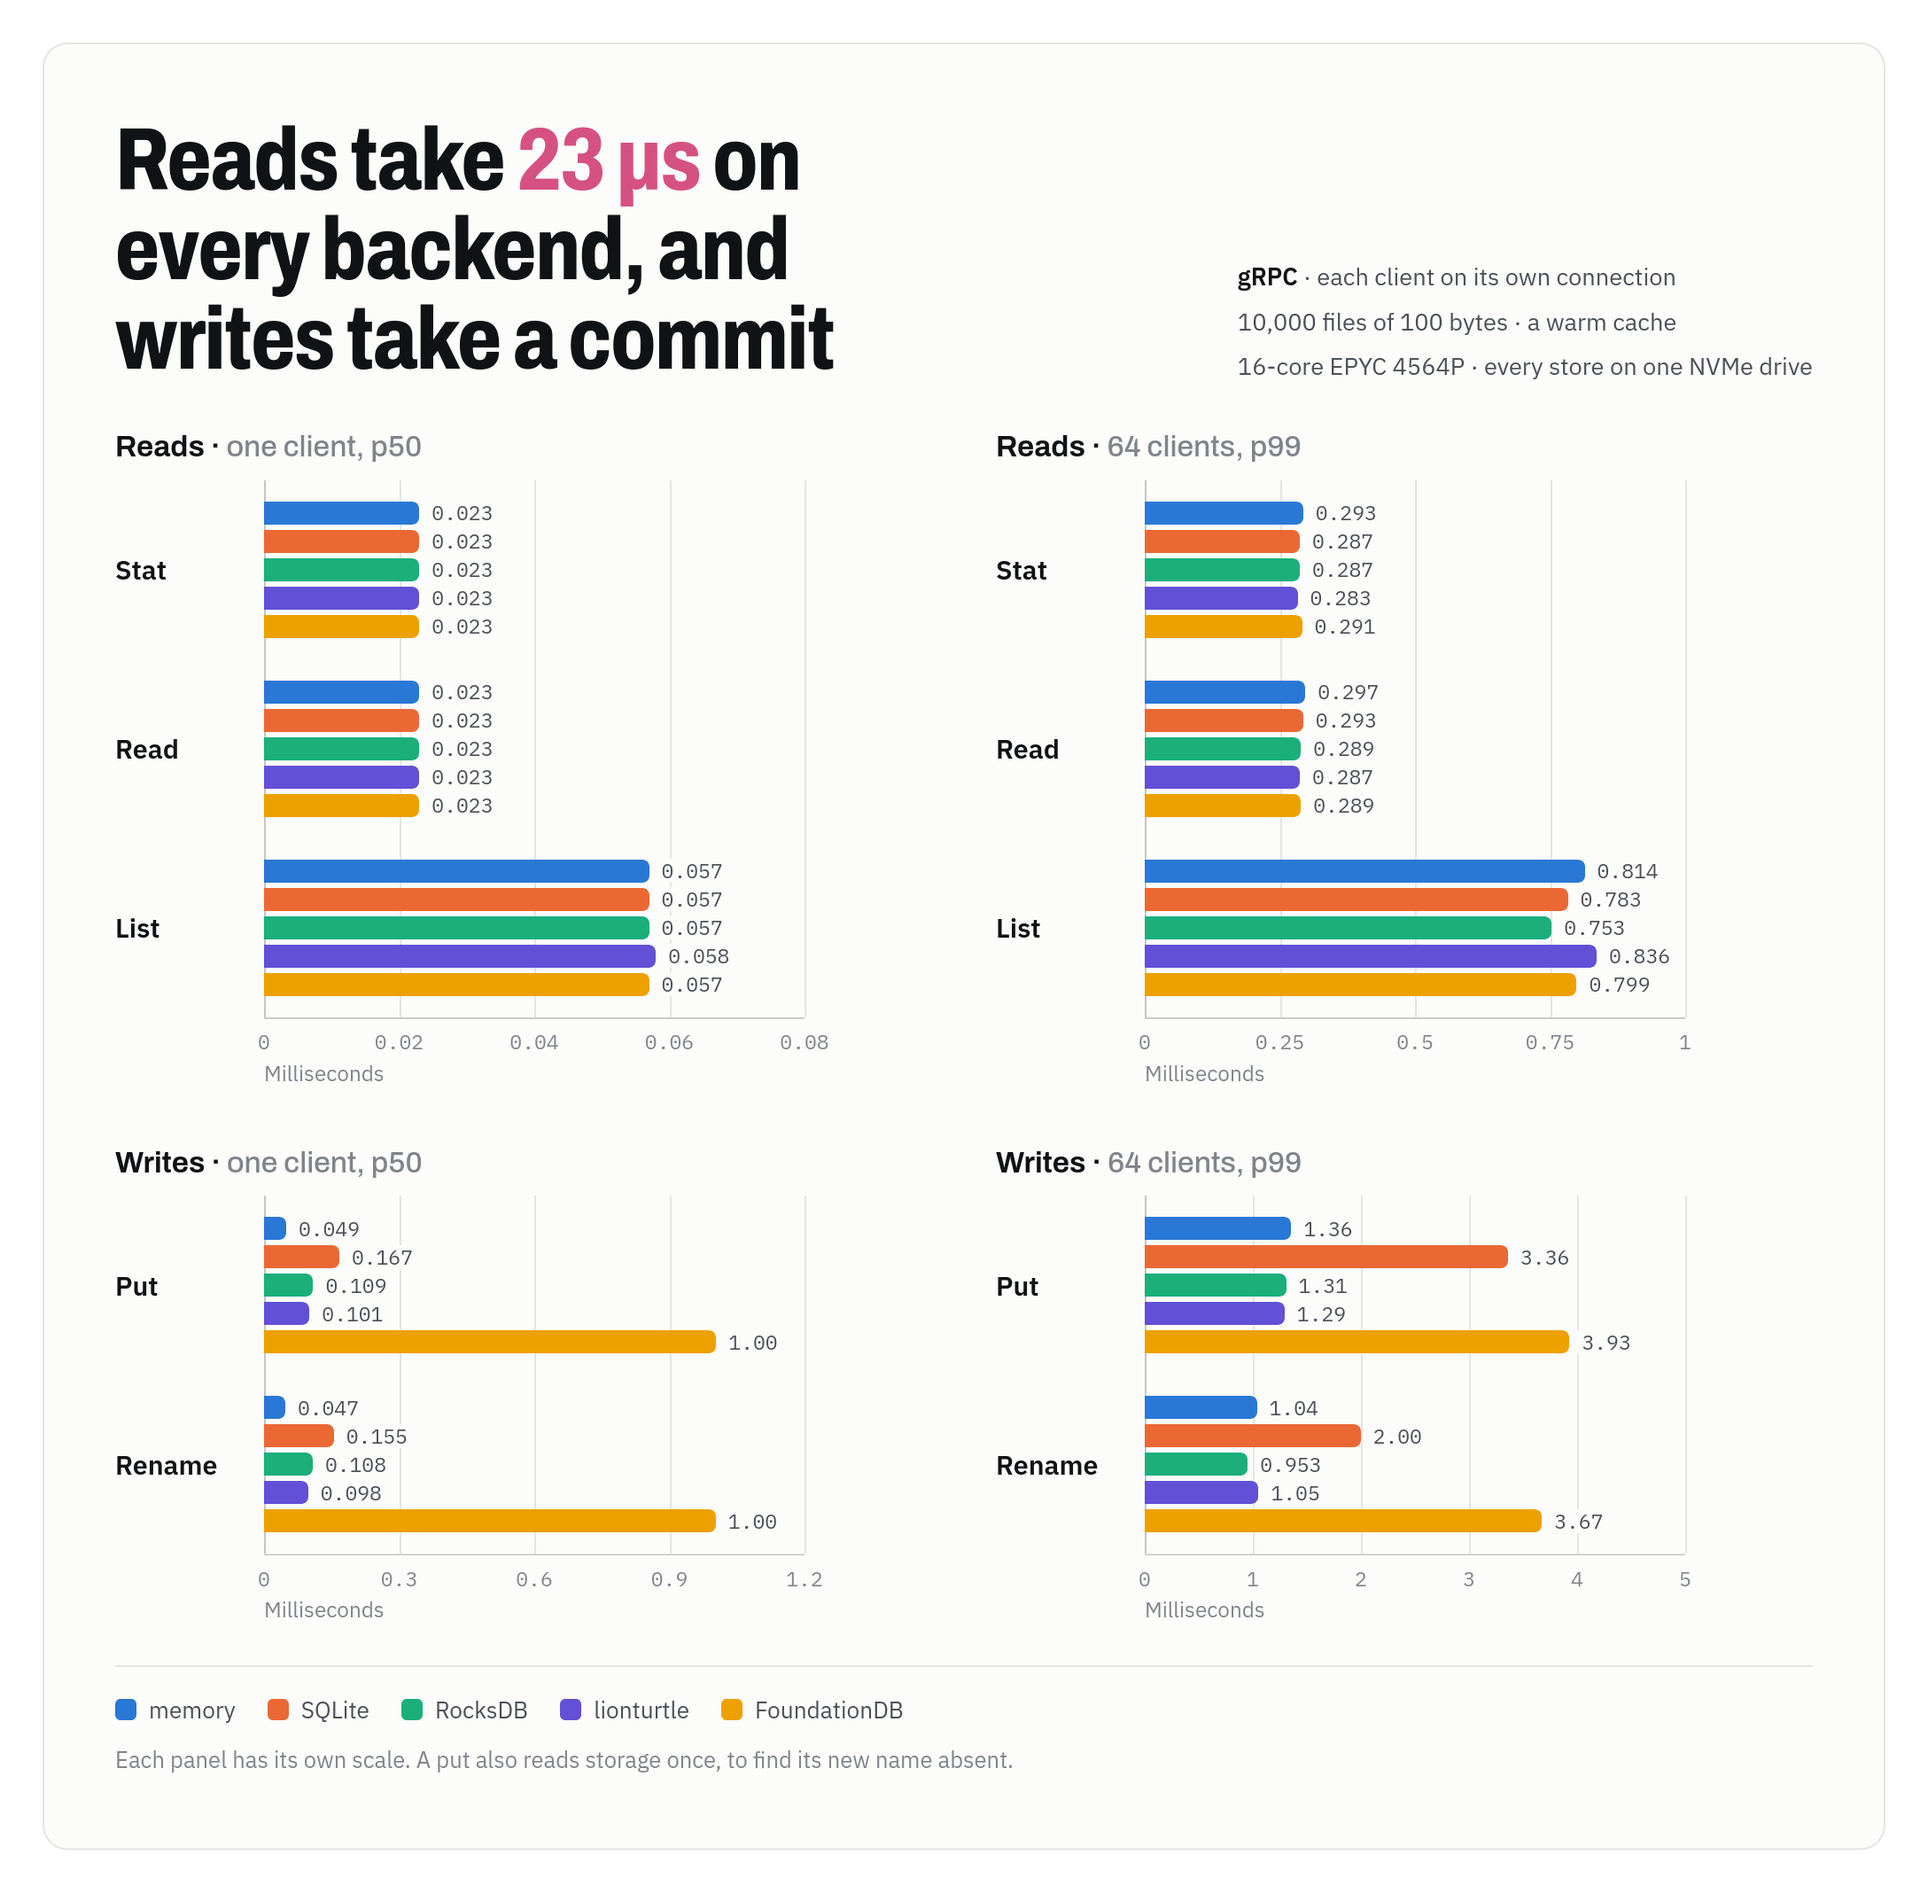
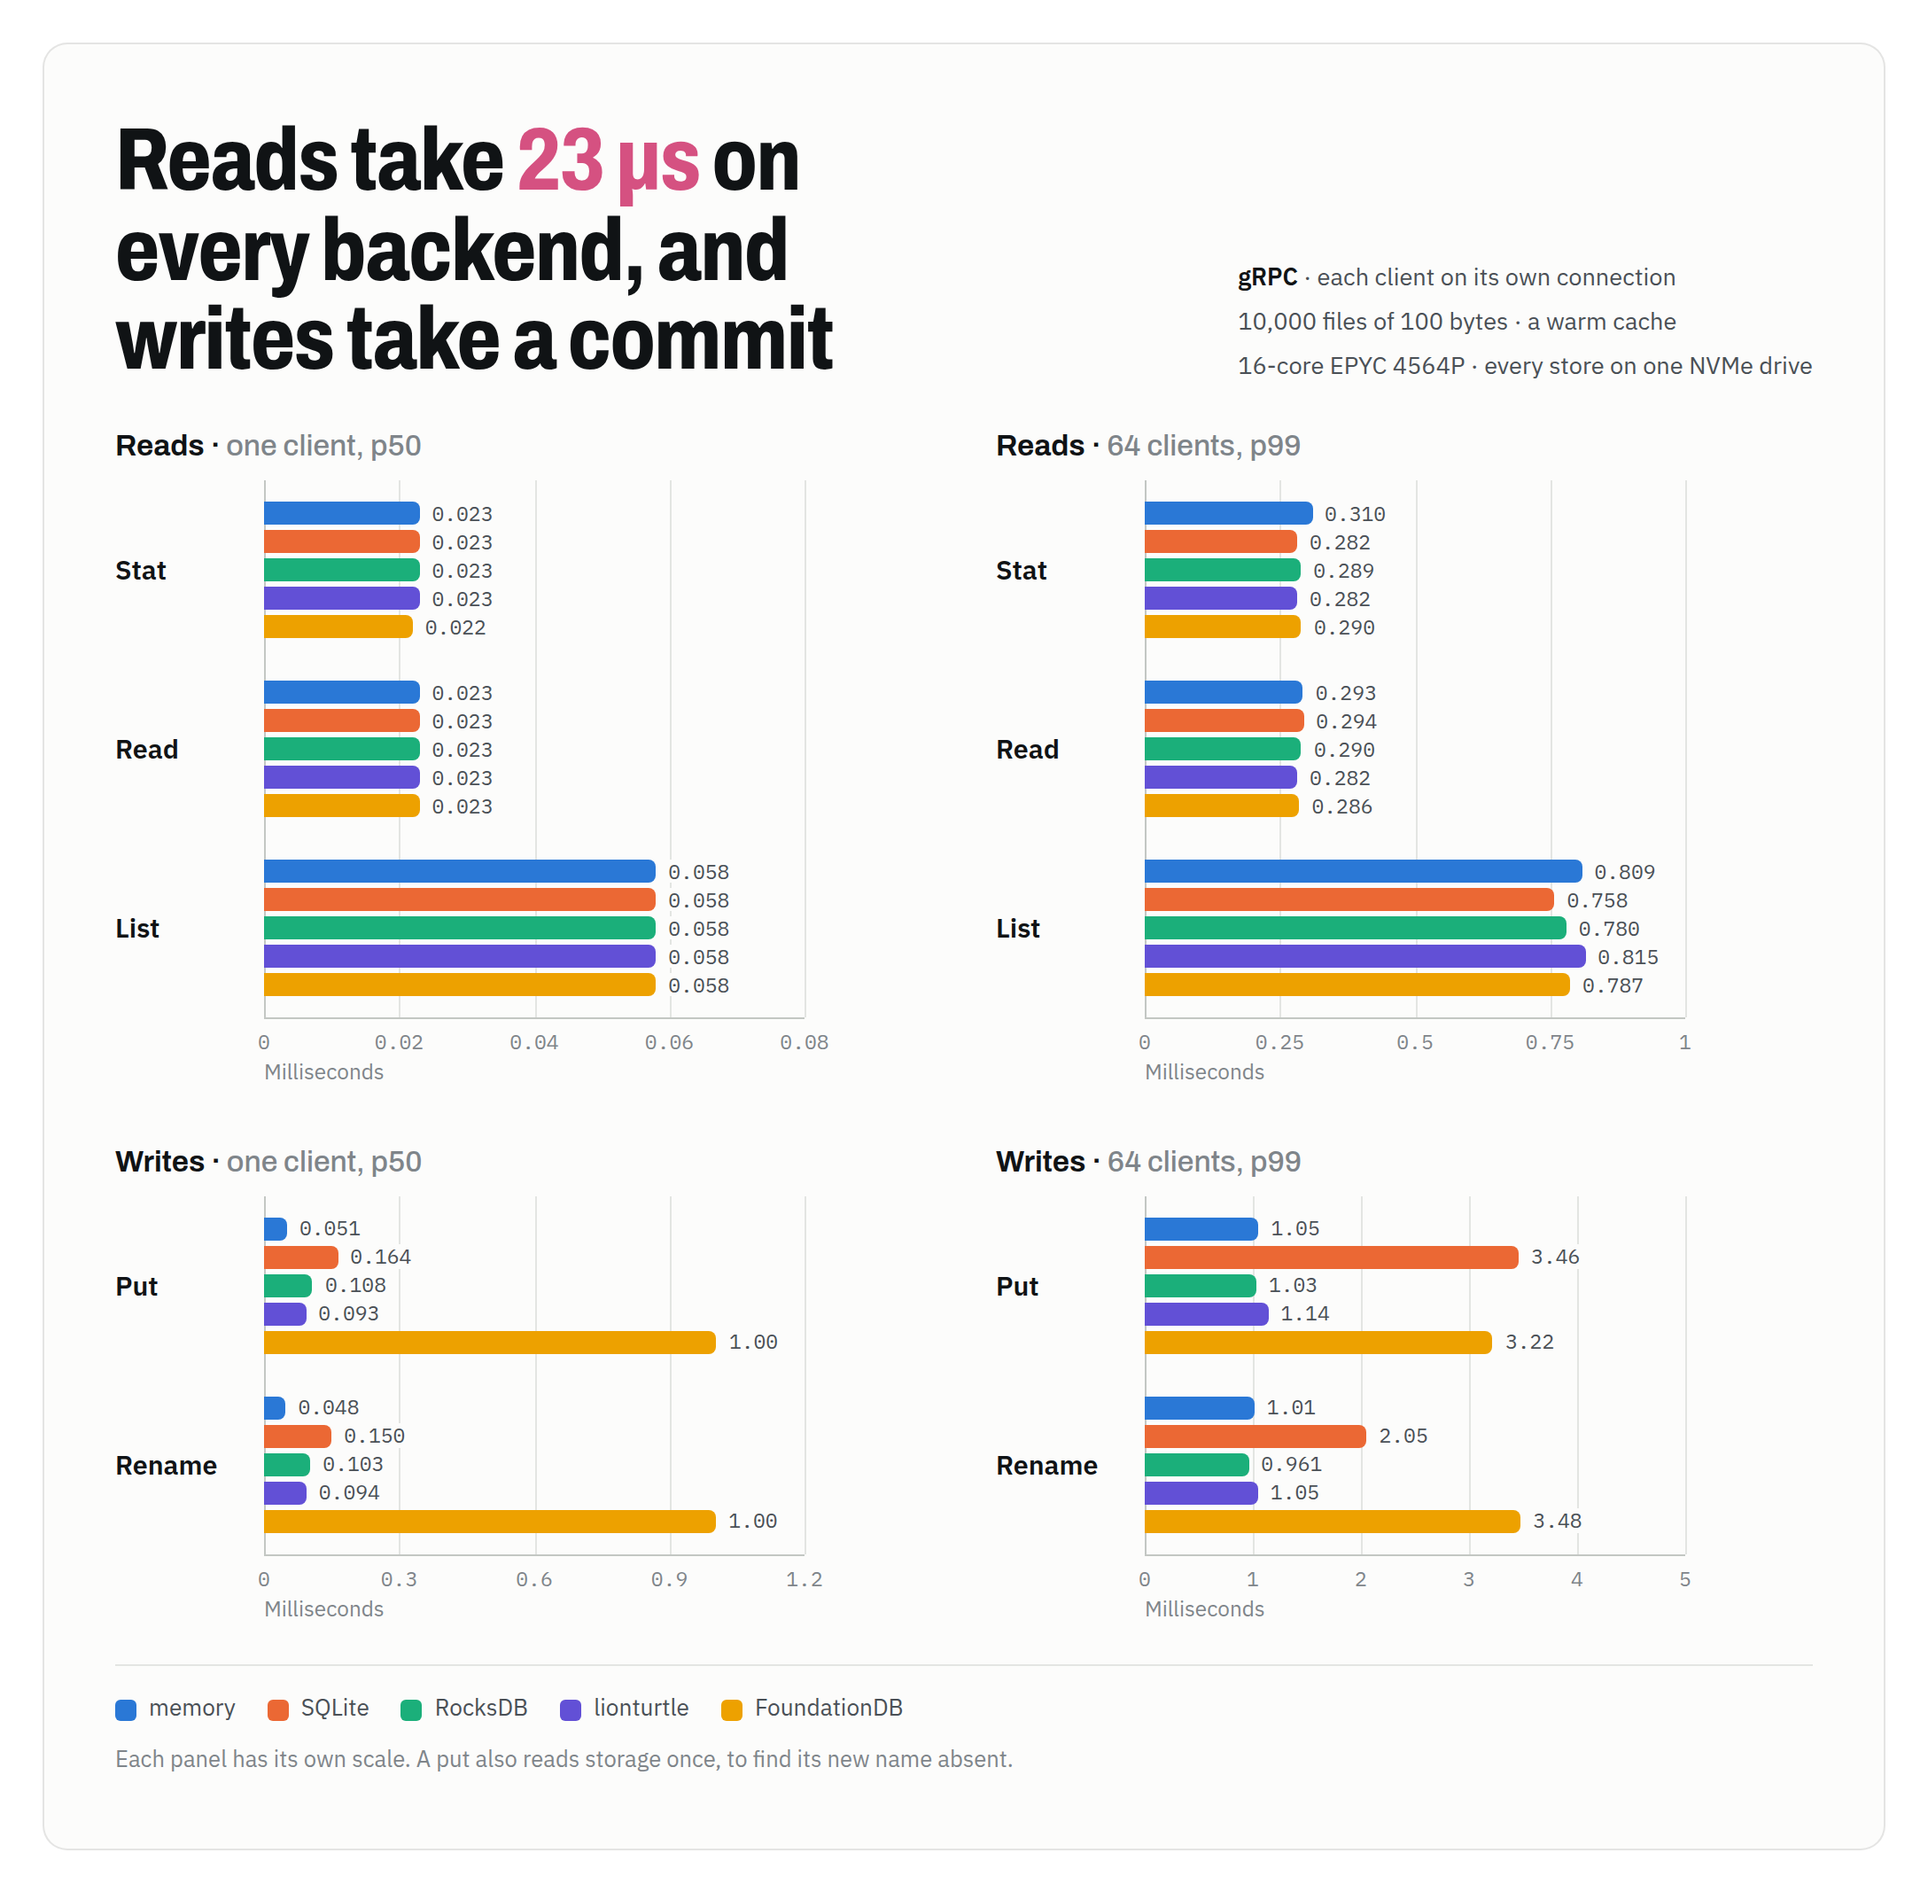
Redraw the README's charts from the new sitting
The three charts show the figures the tables beside them have carried
since the move to lionturtle 0.6.0. The chart of expiring records now
says what its bars do: RocksDB keeps 33,000 batches a second and
lionturtle 37,000.

Rendered with Chrome for Testing 157 through docs/images/render.mjs.

Claude-Session: https://claude.ai/code/session_01TAw1MM417pG695HhwhzY6f

diff --git a/docs/images/charts.html b/docs/images/charts.html
@@ -151,7 +151,7 @@ html.capture[data-theme="dark"] { --bg: #0d1117; }
 
   <div class="card hero" id="expiry">
     <div class="hero-head">
-      <h1>As request records expire, RocksDB and lionturtle keep <em>33k</em> batches a second</h1>
+      <h1>As request records expire, RocksDB and lionturtle keep <em>33k to 37k</em> batches a second</h1>
       <div class="hero-meta">
         <span><b>gRPC</b> · 64 clients, one file per batch</span>
         <span>Records last 60 seconds, then each group deletes them</span>

diff --git a/PLAN.md b/PLAN.md
@@ -561,7 +561,7 @@ Status ledger:
 | Complete | Test | Sustained puts after S4Y | On a second `f4.metal.medium`, two minutes of puts at 64 clients on eeca4a0 and on this tree, each backend in its own process (`BENCHMARKS.md`, "Sustained puts"). lionturtle went from 65,947 puts a second to 72,148 and from 10.3 GiB at the peak to 5.5; RocksDB from 67,945 to 69,504 and from 10.3 GiB to 3.7; SQLite from 29,756 to 30,072 and from 8.9 GiB to 2.2; memory from 72,927 to 74,702 and from 21.9 GiB to 15.6. In 30-second runs there, three lionturtle changes were tried through a patched copy: a write that takes its ops by value cut the mean commit from 227 to 208 us; inserts run on other threads beside the log's write cut it to 148 us while the rate fell 14%, the writer's task slowed by the pool beside it; and the BTree memtable, checkpoint distances of 8 and 128, two merge threads and no compression stayed within noise. The lionturtle session has the first two. |
 | Complete | Work | S4Z: lionturtle 0.6.0, and borrowed writes | The dependency moves to lionturtle 0.6.0, which the lionturtle session cut from the probe's findings (danthegoodman1/lionturtle#25): a memtable's memory is the store's own and passes to the next memtable, each log segment is written whole before it takes writes, and a write copies what it keeps. The backend lays a group's keys in one buffer and passes each write as a borrowed key and value (`storage-lionturtle` `Batch`), three allocations a commit where it made about 514. Three of the backend's planted bugs follow the new code: M"a commit on lionturtle answers before it is durable", M"a range on lionturtle keeps what the group set before it" and M"a range on lionturtle keeps what the store holds". |
 | Complete | Test | Backends after S4Z | `cargo test --workspace --features rocksdb` (571 tests) and clippy pass. `scripts/mutants --lionturtle`: all 11 caught. |
-| Complete | Gate | Metal benchmarks after S4Y and S4Z | One sitting of about three hours on a Latitude.sh `f4.metal.medium`: `scripts/bench/run`, two more passes of "Operations" for its medians, six alternating passes of RocksDB and lionturtle, 05703a0, failover, path resolution and the two-minute puts, with each backend in its own process. lionturtle won every alternating pass on puts and renames, by 10% and 15% at 64 clients and by 11% and 13% at one. Its commit takes 178 to 182 us at the median against RocksDB's 264 to 266, and 357 to 363 us at p99.9 against 644 to 889; RocksDB keeps the lower p99 at 64 clients, 1.06 ms against 1.15 ms on puts, which the probe places on the writer's side of a group's cycle. Two minutes of puts run at 75,581 a second against RocksDB's 68,976, where eeca4a0 ran 65,947 against 67,945. A thread of the store's own for commits cut lionturtle's mean commit from 175 to 180 us to 154 to 160 and one client's put by 2% to 4%, and left the rate at 64 clients where it was, so commits stay on the blocking pool. Controls after the sitting stayed within 3% of its start on stats and within 5% on puts. `README.md` and `docs/images/charts.html` carry the sitting's figures; the three chart images await `node docs/images/render.mjs`, which needs Chrome. |
+| Complete | Gate | Metal benchmarks after S4Y and S4Z | One sitting of about three hours on a Latitude.sh `f4.metal.medium`: `scripts/bench/run`, two more passes of "Operations" for its medians, six alternating passes of RocksDB and lionturtle, 05703a0, failover, path resolution and the two-minute puts, with each backend in its own process. lionturtle won every alternating pass on puts and renames, by 10% and 15% at 64 clients and by 11% and 13% at one. Its commit takes 178 to 182 us at the median against RocksDB's 264 to 266, and 357 to 363 us at p99.9 against 644 to 889; RocksDB keeps the lower p99 at 64 clients, 1.06 ms against 1.15 ms on puts, which the probe places on the writer's side of a group's cycle. Two minutes of puts run at 75,581 a second against RocksDB's 68,976, where eeca4a0 ran 65,947 against 67,945. A thread of the store's own for commits cut lionturtle's mean commit from 175 to 180 us to 154 to 160 and one client's put by 2% to 4%, and left the rate at 64 clients where it was, so commits stay on the blocking pool. Controls after the sitting stayed within 3% of its start on stats and within 5% on puts. `README.md` and its three charts, drawn from `docs/images/charts.html`, carry the sitting's figures. |
 
 ## Phase 8: ClickHouse Metadata Type
 
